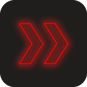
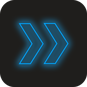
Changed color within settings

diff --git a/preferences/NextUpRootListController.m b/preferences/NextUpRootListController.m
@@ -6,7 +6,7 @@
 #import <spawn.h>
 #import <PayPalMobile/PayPalMobile.h>
 
-#define NextUpColor [UIColor redColor]
+#define NextUpColor [UIColor colorWithRed:0.00 green:0.65 blue:1.00 alpha:1.0] // #00A5FF
 #define preferencesFrameworkPath @"/System/Library/PrivateFrameworks/Preferences.framework"
 
 @interface NextUpRootListController : PSListController <PFStatusBarAlertDelegate, PayPalPaymentDelegate> {
@@ -240,6 +240,20 @@
 - (CGFloat)preferredHeightForWidth:(CGFloat)arg1 {
     // Return a custom cell height.
     return 140.f;
+}
+
+@end
+
+
+@interface NextUpColorButtonCell : PSTableCell
+@end
+
+
+@implementation NextUpColorButtonCell
+
+- (void)layoutSubviews {
+    [super layoutSubviews];
+    [self.textLabel setTextColor:NextUpColor];
 }
 
 @end
